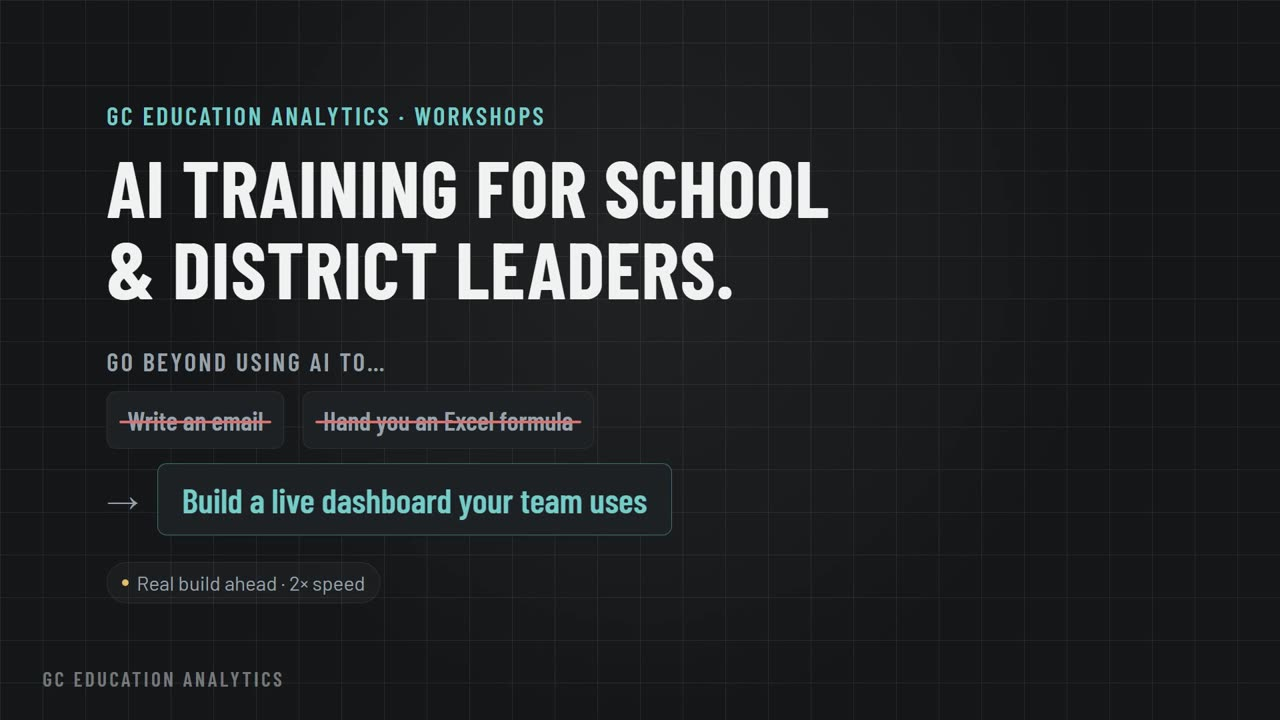
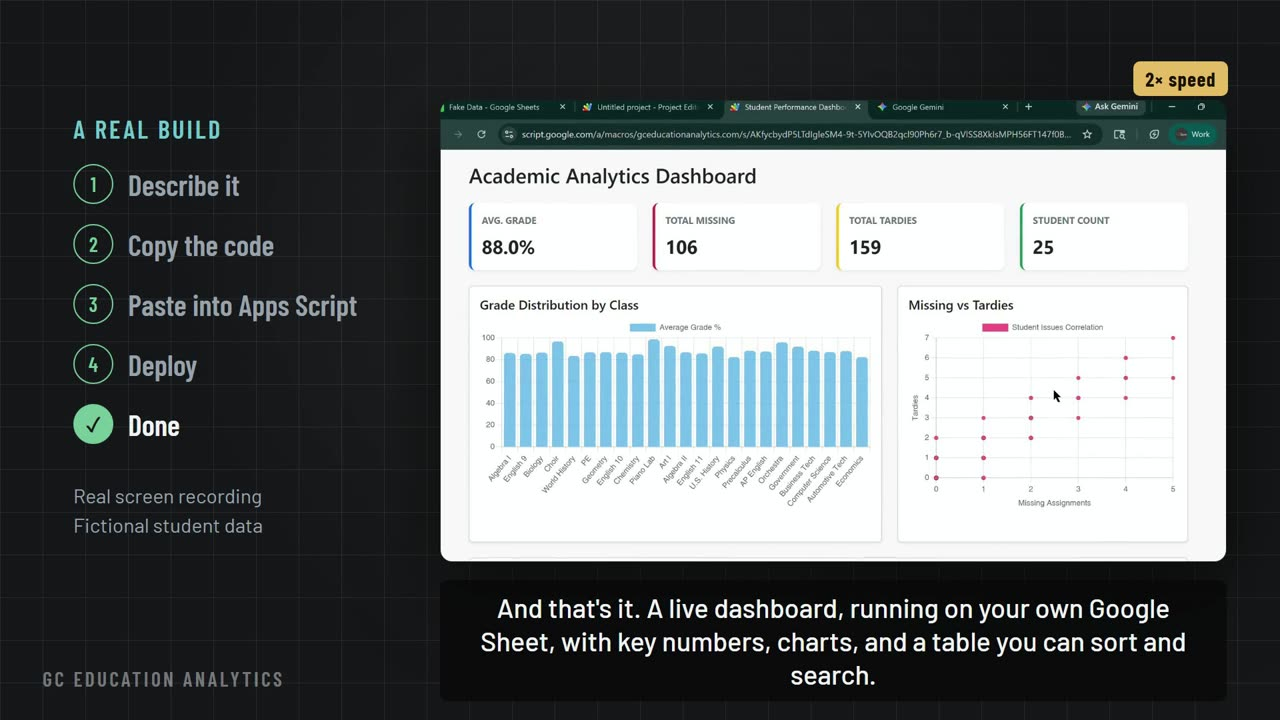
Redesign AI training page with build videos; theme, readability, and SEO updates

diff --git a/ai-training/index.html b/ai-training/index.html
@@ -124,10 +124,13 @@
         </div>
         <div class="watch-grid">
           <figure class="video-card">
-            <video controls preload="none" playsinline poster="../assets/videos/ai-dashboard-build-poster.jpg">
+            <div class="video-frame">
+            <video preload="none" playsinline poster="../assets/videos/ai-dashboard-build-poster.jpg">
               <source src="../assets/videos/ai-dashboard-build.mp4" type="video/mp4">
               <track kind="captions" src="../assets/videos/ai-dashboard-build.vtt" srclang="en" label="English" default>
             </video>
+            <button class="video-play" type="button" data-video-play aria-label="Play the dashboard build walkthrough"><span>Watch the build · 2:24</span></button>
+          </div>
             <figcaption class="panel__caption">2 min 24 sec · Narrated with captions. The build is a real recording at 2× speed; the capability scenes are examples.</figcaption>
           </figure>
           <article class="card">
@@ -273,11 +276,14 @@
           <p class="section__lead">Use AI, VS Code, and LaTeX to turn instructional content into standardized assessments, tiered interventions, graphic organizers, and professional PDFs.</p>
         </div>
         <figure class="video-card video-card--narrow">
-          <video controls preload="none" playsinline poster="../assets/videos/latex-curriculum-demo-poster.jpg">
+          <div class="video-frame">
+            <video preload="none" playsinline poster="../assets/videos/latex-curriculum-demo-poster.jpg">
             <source src="../assets/videos/latex-curriculum-demo.mp4" type="video/mp4">
             <track kind="captions" src="../assets/videos/latex-curriculum-demo.vtt" srclang="en" label="English" default>
           </video>
-          <figcaption class="panel__caption">2 min · Same AI, same prompt, different result: copy-and-paste versus LaTeX and Overleaf for a print-ready exit ticket.</figcaption>
+            <button class="video-play" type="button" data-video-play aria-label="Play the LaTeX curriculum demo"><span>Watch the demo · 1:57</span></button>
+          </div>
+          <figcaption class="panel__caption">1 min 57 sec · Same AI, same prompt, different result: copy-and-paste versus LaTeX and Overleaf for a print-ready exit ticket.</figcaption>
         </figure>
         <div class="grid grid--2 page-spacer">
           <article class="card">

diff --git a/assets/css/site.css b/assets/css/site.css
@@ -159,7 +159,7 @@ h4 {
 }
 
 .page-wrap {
-  padding-bottom: 9rem;
+  padding-bottom: 3rem;
 }
 
 .page-wrap,
@@ -171,6 +171,8 @@ h4 {
 }
 
 .bg-motion {
+  -webkit-mask-image: linear-gradient(180deg, #000 55%, transparent 100%);
+  mask-image: linear-gradient(180deg, #000 55%, transparent 100%);
   position: absolute;
   inset: 0 0 auto;
   height: 1000px;
@@ -927,8 +929,7 @@ html[data-theme="dark"] .section > .shell:not(.page-spacer):not(.home-chapter__i
 
 .section > .shell:not(.page-spacer):not(.home-chapter__intro) .pricing-card,
 .section > .shell:not(.page-spacer):not(.home-chapter__intro) .legal-card,
-.section > .shell:not(.page-spacer):not(.home-chapter__intro) .gallery-card,
-.section > .shell:not(.page-spacer):not(.home-chapter__intro) .cta-band {
+.section > .shell:not(.page-spacer):not(.home-chapter__intro) .gallery-card {
   background: var(--surface);
   border: 1px solid var(--border);
   border-radius: var(--radius-xl);
@@ -1862,7 +1863,60 @@ figure.panel {
   color: var(--muted);
 }
 
+/* Testimonials sit on a light band once their card frame is flattened. */
+.section > .shell:not(.page-spacer):not(.home-chapter__intro) .testimonial-card figcaption {
+  color: var(--muted);
+}
+
+/* Image panels inside a framed section: let captions breathe instead of clipping glyphs. */
+.section > .shell:not(.page-spacer):not(.home-chapter__intro) > .panel--image {
+  overflow: visible;
+}
+
 /* Video */
+.video-frame {
+  position: relative;
+}
+
+.video-play {
+  position: absolute;
+  inset: 0;
+  display: grid;
+  place-items: center;
+  appearance: none;
+  border: 0;
+  border-radius: 20px;
+  background: linear-gradient(180deg, transparent 55%, rgba(10, 11, 13, 0.35));
+  cursor: pointer;
+}
+
+.video-play span {
+  display: inline-flex;
+  align-items: center;
+  gap: 0.6rem;
+  padding: 0.85rem 1.35rem;
+  border-radius: 999px;
+  background: rgba(10, 11, 13, 0.82);
+  color: #fff;
+  font: inherit;
+  font-weight: 700;
+  box-shadow: 0 12px 30px rgba(0, 0, 0, 0.3);
+}
+
+.video-play span::before {
+  content: "";
+  width: 0;
+  height: 0;
+  border-left: 14px solid #fff;
+  border-top: 9px solid transparent;
+  border-bottom: 9px solid transparent;
+}
+
+.video-play:hover span,
+.video-play:focus-visible span {
+  background: var(--teal-dark);
+}
+
 .loop-video {
   position: relative;
 }

diff --git a/assets/js/site.js b/assets/js/site.js
@@ -225,10 +225,10 @@ function setupDockBehavior(dockMount) {
   scheduleCompactDock();
 }
 
-// Hide the floating booking dock while the page's own booking band or the footer is on screen.
+// Hide the floating booking dock while the hero, the page's own booking band, or the footer is on screen.
 function setupDockVisibility(dockMount) {
   if (!dockMount || !("IntersectionObserver" in window)) return;
-  const targets = document.querySelectorAll(".cta-band, #site-footer");
+  const targets = document.querySelectorAll(".hero, .cta-band, #site-footer");
   if (!targets.length) return;
 
   const visible = new Set();
@@ -266,6 +266,20 @@ function setupLoopVideos() {
       });
     }
     sync();
+  });
+}
+
+// Narrated videos: show a clean poster with one play button, then hand over to native controls.
+function setupVideoPlayButtons() {
+  document.querySelectorAll("[data-video-play]").forEach((button) => {
+    const video = button.parentElement.querySelector("video");
+    if (!video) return;
+    button.addEventListener("click", () => {
+      video.controls = true;
+      button.hidden = true;
+      video.play().catch(() => {});
+      video.focus();
+    });
   });
 }
 
@@ -425,6 +439,7 @@ document.addEventListener("DOMContentLoaded", () => {
 
   setupDockVisibility(dockMount);
   setupLoopVideos();
+  setupVideoPlayButtons();
   optimizeImageLoading();
 
   syncPrimaryNavigation(currentPath);
